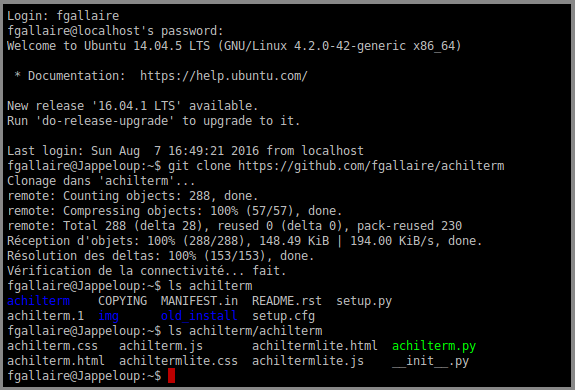
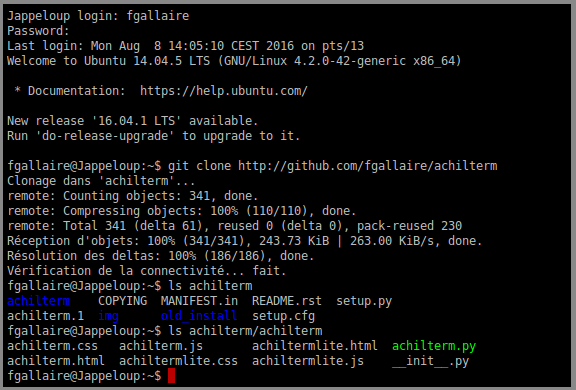
Add hostname to login (Julien Valroff)

Changed region(s): [[0.0, 0.0308, 0.887, 0.9846], [0.68, 0.8615, 0.8278, 0.9538], [0.5913, 0.7385, 0.68, 0.8]]

diff --git a/achilterm/achilterm.py b/achilterm/achilterm.py
@@ -24,6 +24,7 @@ __version__ = '0.21'
 import array,cgi,fcntl,glob,mimetypes,optparse,os,pty,random,re,signal,select,sys,threading,time,termios,struct,pwd
 
 import webob
+from socket import gethostname
 from wsgiref.simple_server import make_server, WSGIRequestHandler
 import gzip
 
@@ -410,7 +411,7 @@ class Multiplex:
 			elif os.getuid()==0:
 				cmd=['/bin/login']
 			else:
-				sys.stdout.write("Login: ")
+				sys.stdout.write(gethostname() + " login: ")
 				sys.stdout.flush()
 				login=sys.stdin.readline().strip()
 				if re.match('^[0-9A-Za-z-_. ]+$',login):
